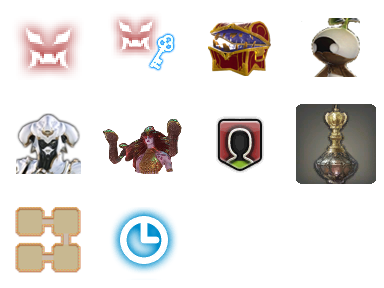
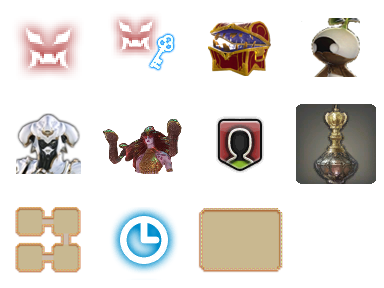
Added Big Floors/Hall of Fallacies counting to the Statistics Window

Changed region(s): [[0.5, 0.7188, 0.75, 0.9688]]

diff --git a/DeepDungeonTracker/Data/DataStatistics.cs b/DeepDungeonTracker/Data/DataStatistics.cs
@@ -294,6 +294,7 @@ public class DataStatistics
             new (Miscellaneous.Death, floorSet?.Deaths() ?? 0),
             new (Miscellaneous.RegenPotion, floorSet?.RegenPotions() ?? 0),
             new (Miscellaneous.Map, floorSet?.Maps() ?? 0),
+            new (Miscellaneous.HallOfFallacies, floorSet?.HallOfFallacies() ?? 0),
             new (Miscellaneous.TimeBonus, Convert.ToInt32(floorSet?.TimeBonus, CultureInfo.InvariantCulture))
         }).RemoveAll(x => x.Total == 0);
     }
@@ -311,6 +312,7 @@ public class DataStatistics
             new (Miscellaneous.Death, saveSlot?.Deaths() ?? 0),
             new (Miscellaneous.RegenPotion, saveSlot?.RegenPotions() ?? 0),
             new (Miscellaneous.Map, saveSlot?.Maps() ?? 0),
+            new (Miscellaneous.HallOfFallacies, saveSlot?.HallOfFallacies() ?? 0),
             new (Miscellaneous.TimeBonus, saveSlot?.TimeBonuses() ?? 0)
         }).RemoveAll(x => x.Total == 0);
     }

diff --git a/DeepDungeonTracker/Data/FloorSet.cs b/DeepDungeonTracker/Data/FloorSet.cs
@@ -50,6 +50,8 @@ public class FloorSet
 
     public int Maps() => this.Floors.Sum(x => x.Map ? 1 : 0);
 
+    public int HallOfFallacies() => this.Floors.Sum(x => x.MapData.FloorType == FloorType.HallOfFallacies ? 1 : 0);
+
     public Floor? FirstFloor() => this.Floors.FirstOrDefault();
 
     public Floor? CurrentFloor() => this.Floors.LastOrDefault();

diff --git a/DeepDungeonTracker/Data/SaveSlot.cs b/DeepDungeonTracker/Data/SaveSlot.cs
@@ -78,6 +78,8 @@ public class SaveSlot
 
     public int Maps() => this.FloorSets.Sum(x => x.Maps());
 
+    public int HallOfFallacies() => this.FloorSets.Sum(x => x.HallOfFallacies());
+
     public int TimeBonuses() => this.FloorSets.Sum(x => x.TimeBonus ? 1 : 0);
 
     public FloorSet? CurrentFloorSet() => this.FloorSets.LastOrDefault();

diff --git a/DeepDungeonTracker/Enum/Miscellaneous.cs b/DeepDungeonTracker/Enum/Miscellaneous.cs
@@ -11,5 +11,6 @@ public enum Miscellaneous
     Death,
     RegenPotion,
     Map,
-    TimeBonus
+    TimeBonus,
+    HallOfFallacies
 }
